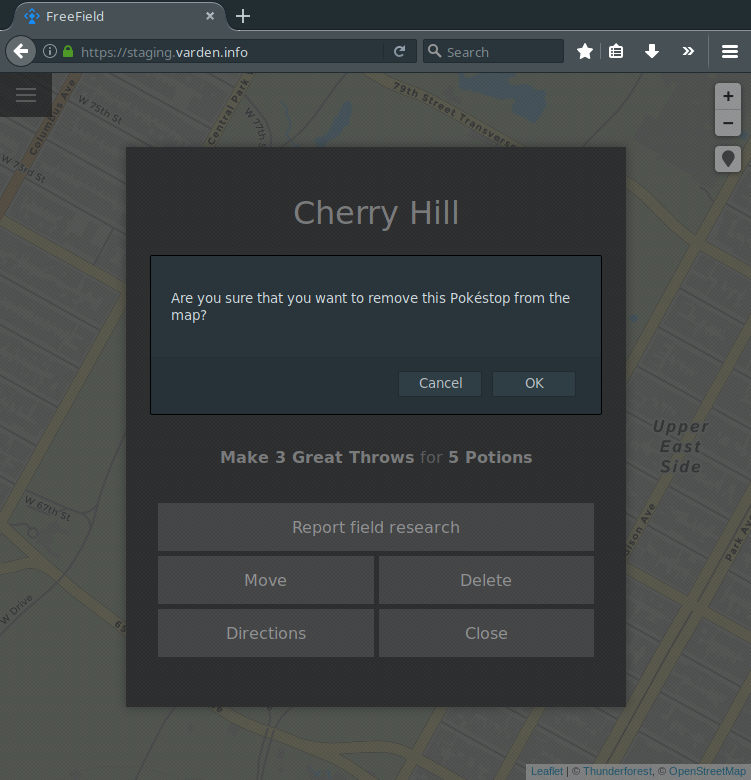
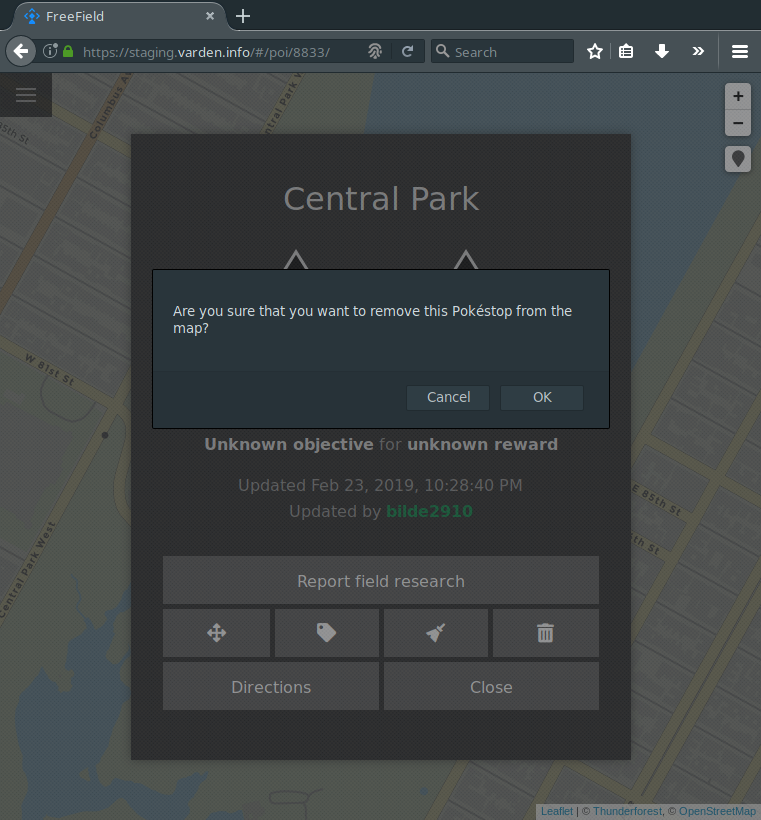
Docs for POI dialog UI change

diff --git a/docs/manage-poi.rst b/docs/manage-poi.rst
@@ -31,7 +31,7 @@ If a Pokéstop is wrongly located, you can move it to another location directly
 from the map view. This requires the "Manage Pokéstops" permission.
 
 1. Click on the Pokéstop on the map that is wrongly located.
-2. Click :guilabel:`Move`.
+2. Click the "Move" button (indicated by a four arrows icon).
 3. Click on the map at the location that the Pokéstop should be moved to.
 
 .. image:: _images/manage-poi-02-move.png
@@ -46,7 +46,7 @@ Removing from the map view
 ^^^^^^^^^^^^^^^^^^^^^^^^^^
 
 1. Click on the Pokéstop on the map that should be removed.
-2. Click :guilabel:`Delete`.
+2. Click the "Delete" button (indicated by a trash bin icon).
 3. In the popup that appears, click :guilabel:`OK` to confirm removal of the
    Pokéstop.
 
@@ -66,12 +66,46 @@ Clearing field research
 -----------------------
 
 To clear the currently active field research on a Pokéstop and reset it to the
-"unknown" research task, do the following:
+"unknown" research task, do either of the following:
+
+Clearing from the map view
+^^^^^^^^^^^^^^^^^^^^^^^^^^
+
+1. Click on the Pokéstop on the map that you want to clear the research task
+   for.
+2. Click the "Clear research" button (indicated by a brush icon).
+3. In the popup that appears, click :guilabel:`OK` to confirm that you wish to
+   clear the currently active research from the Pokéstop.
+
+Clearing from the administration pages
+^^^^^^^^^^^^^^^^^^^^^^^^^^^^^^^^^^^^^^
 
 1. Navigate to the "Pokéstops" section on the administration pages.
 2. In the list of Pokéstops, look for the Pokéstop(s) whose active research task
    you want to clear.
 3. In the "Actions" column for the Pokéstop(s), select "Clear research task."
+4. Click on :guilabel:`Save settings` at the bottom of the page.
+
+Renaming Pokéstops
+------------------
+
+You can rename a Pokéstop either from the map or from the administration pages:
+
+Renaming from the map view
+^^^^^^^^^^^^^^^^^^^^^^^^^^
+
+1. Click on the Pokéstop on the map that you want to rename.
+2. Click the "Rename" button (indicated by a tag icon).
+3. In the popup that appears, enter a new name for the Pokéstop and click
+   :guilabel:`OK` to submit the name change.
+
+Renaming from the administration pages
+^^^^^^^^^^^^^^^^^^^^^^^^^^^^^^^^^^^^^^
+
+1. Navigate to the "Pokéstops" section on the administration pages.
+2. In the list of Pokéstops, look for the Pokéstop(s) you want to rename.
+3. In the "Name" column for the Pokéstop(s), enter the new name for the
+   Pokéstop(s).
 4. Click on :guilabel:`Save settings` at the bottom of the page.
 
 Managing Pokéstops
